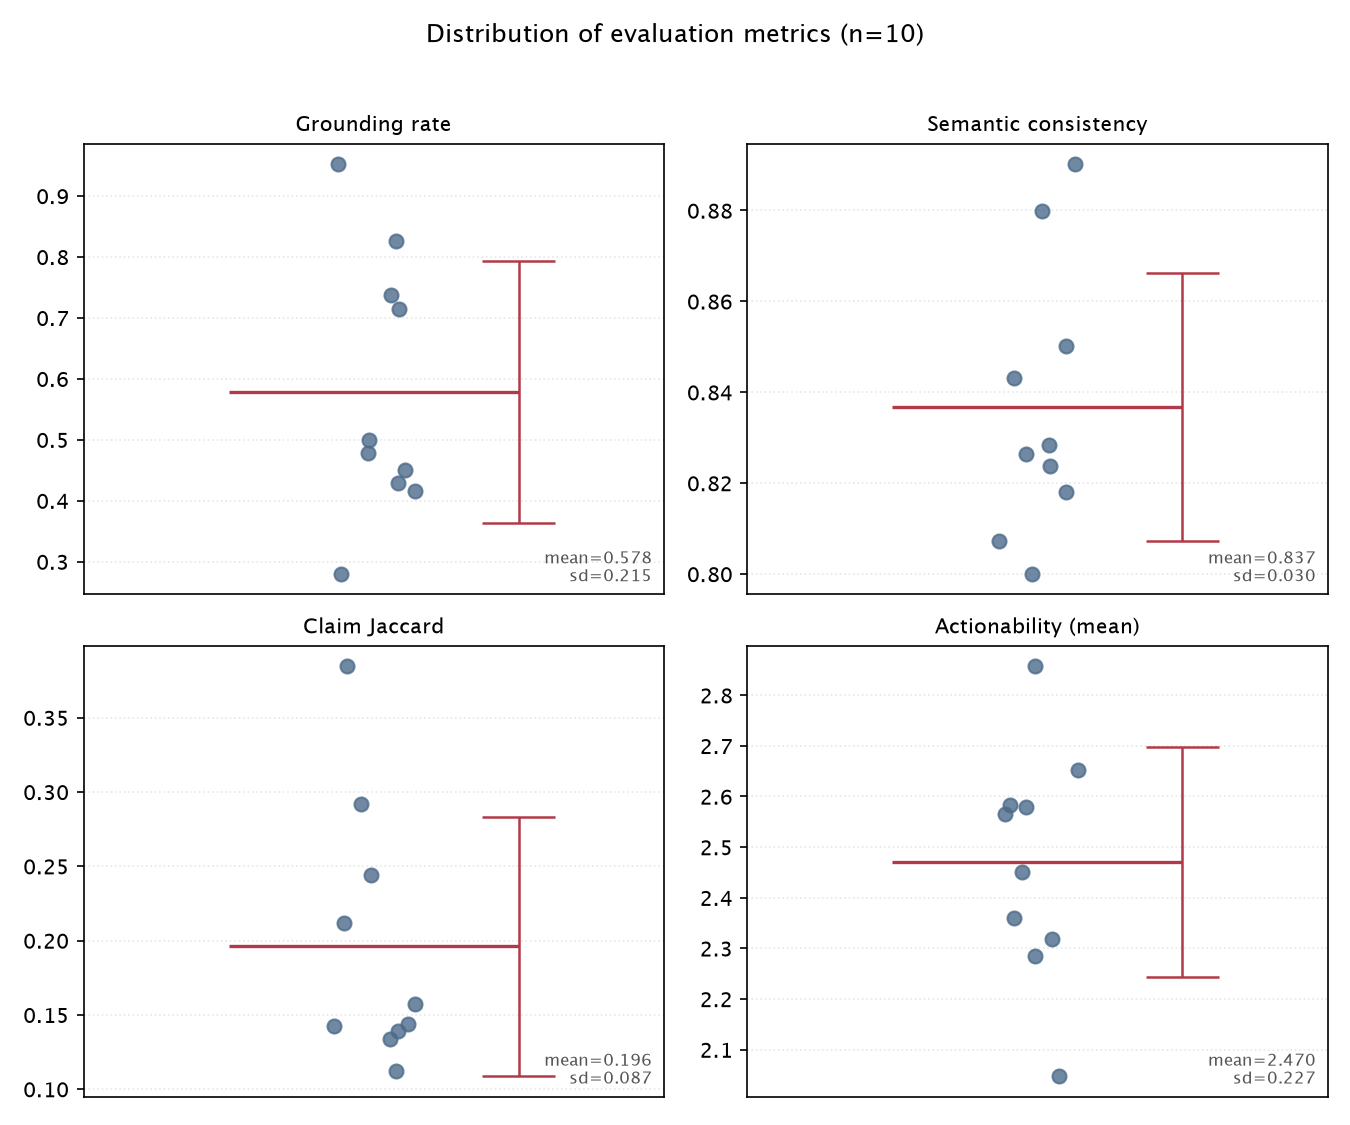
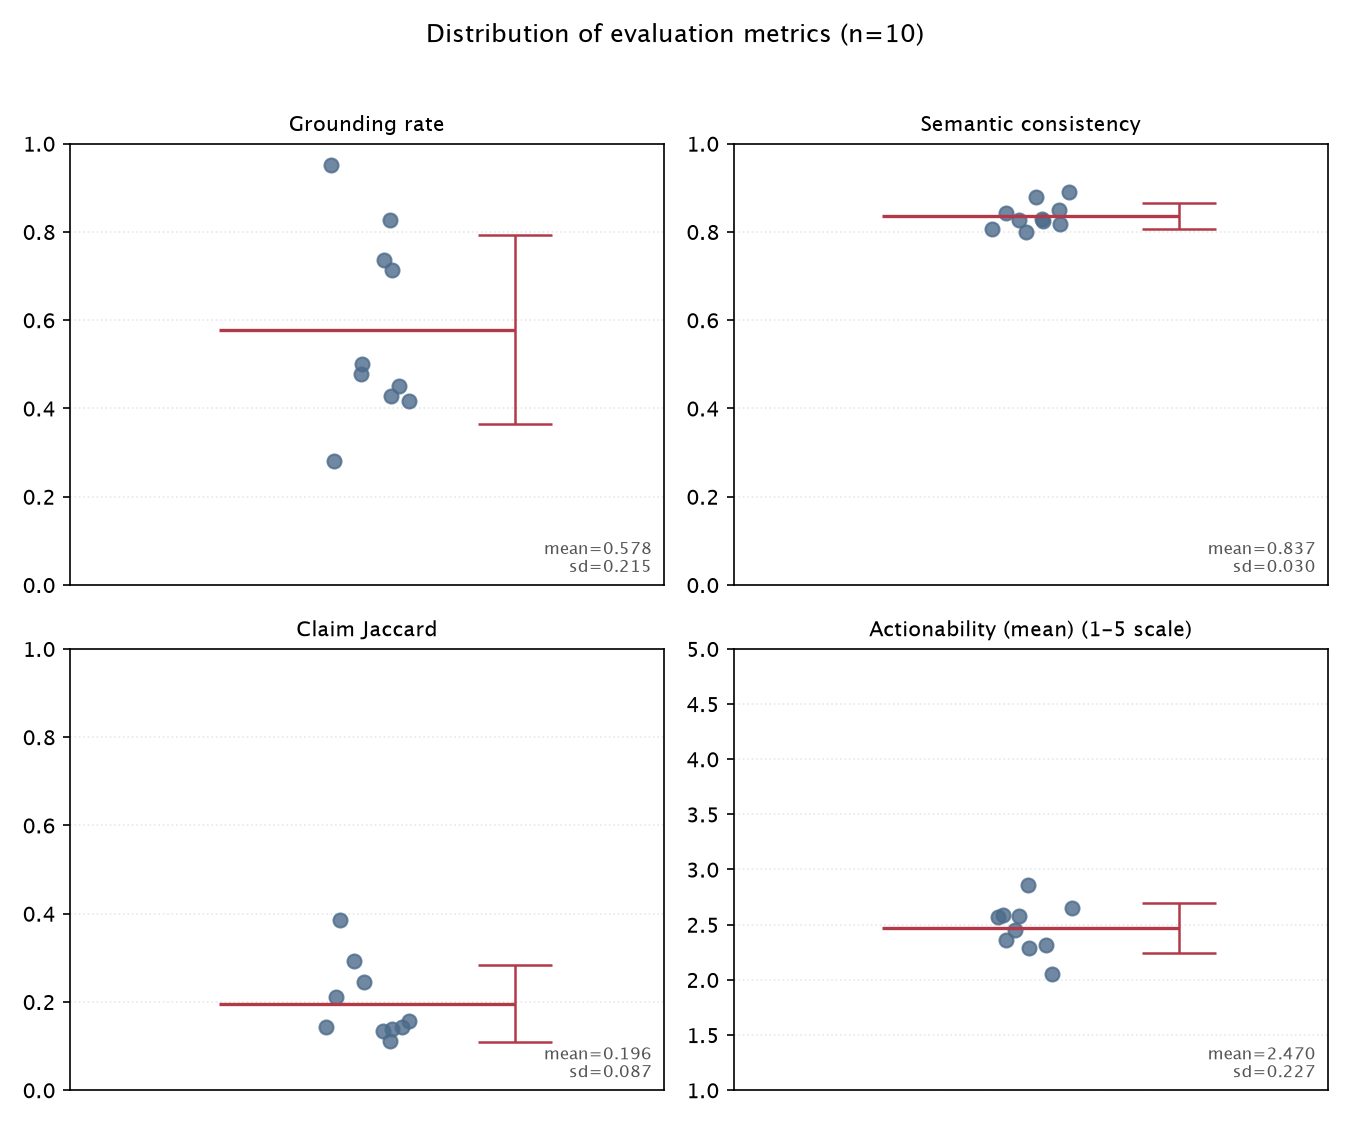
Fix metrics_distribution.png: unify y-axis scale per-metric intent
Each of the four panels was previously autoscaled independently,
which visually erased the dispersion contrast the figure is meant to
show: semantic_consistency (sd=0.030) looked as spread out as
claim_jaccard (sd=0.087) simply because its tight range (0.80-0.89)
filled the panel.

grounding_rate, semantic_consistency, and claim_jaccard now share a
fixed 0-1 y-axis so their spread is directly comparable by eye.
actionability_mean keeps its own 1-5 axis (different rubric scale)
and its panel title now says "(1-5 scale)" to make that explicit.

diff --git a/src/figures.py b/src/figures.py
@@ -95,16 +95,16 @@ def plot_retrieval_vs_grounding(df: pd.DataFrame, output_path: Path) -> None:
 
 def plot_metrics_distribution(df: pd.DataFrame, output_path: Path) -> None:
     metrics = [
-        ("grounding_rate", "Grounding rate"),
-        ("semantic_consistency", "Semantic consistency"),
-        ("claim_jaccard", "Claim Jaccard"),
-        ("actionability_mean", "Actionability (mean)"),
+        ("grounding_rate", "Grounding rate", (0, 1)),
+        ("semantic_consistency", "Semantic consistency", (0, 1)),
+        ("claim_jaccard", "Claim Jaccard", (0, 1)),
+        ("actionability_mean", "Actionability (mean) (1-5 scale)", (1, 5)),
     ]
 
     fig, axes = plt.subplots(2, 2, figsize=(9, 7.5))
     rng = np.random.default_rng(42)
 
-    for ax, (col, label) in zip(axes.flat, metrics):
+    for ax, (col, label, ylim) in zip(axes.flat, metrics):
         values = df[col].to_numpy(dtype=float)
         mean = float(np.mean(values))
         sd = float(np.std(values, ddof=1))
@@ -118,6 +118,7 @@ def plot_metrics_distribution(df: pd.DataFrame, output_path: Path) -> None:
         ax.hlines([mean - sd, mean + sd], 0.15, 0.25, color="#B23A48", linewidth=1.2, zorder=4)
 
         ax.set_xlim(-0.4, 0.4)
+        ax.set_ylim(*ylim)
         ax.set_xticks([])
         ax.set_title(label, fontsize=10)
         ax.text(
